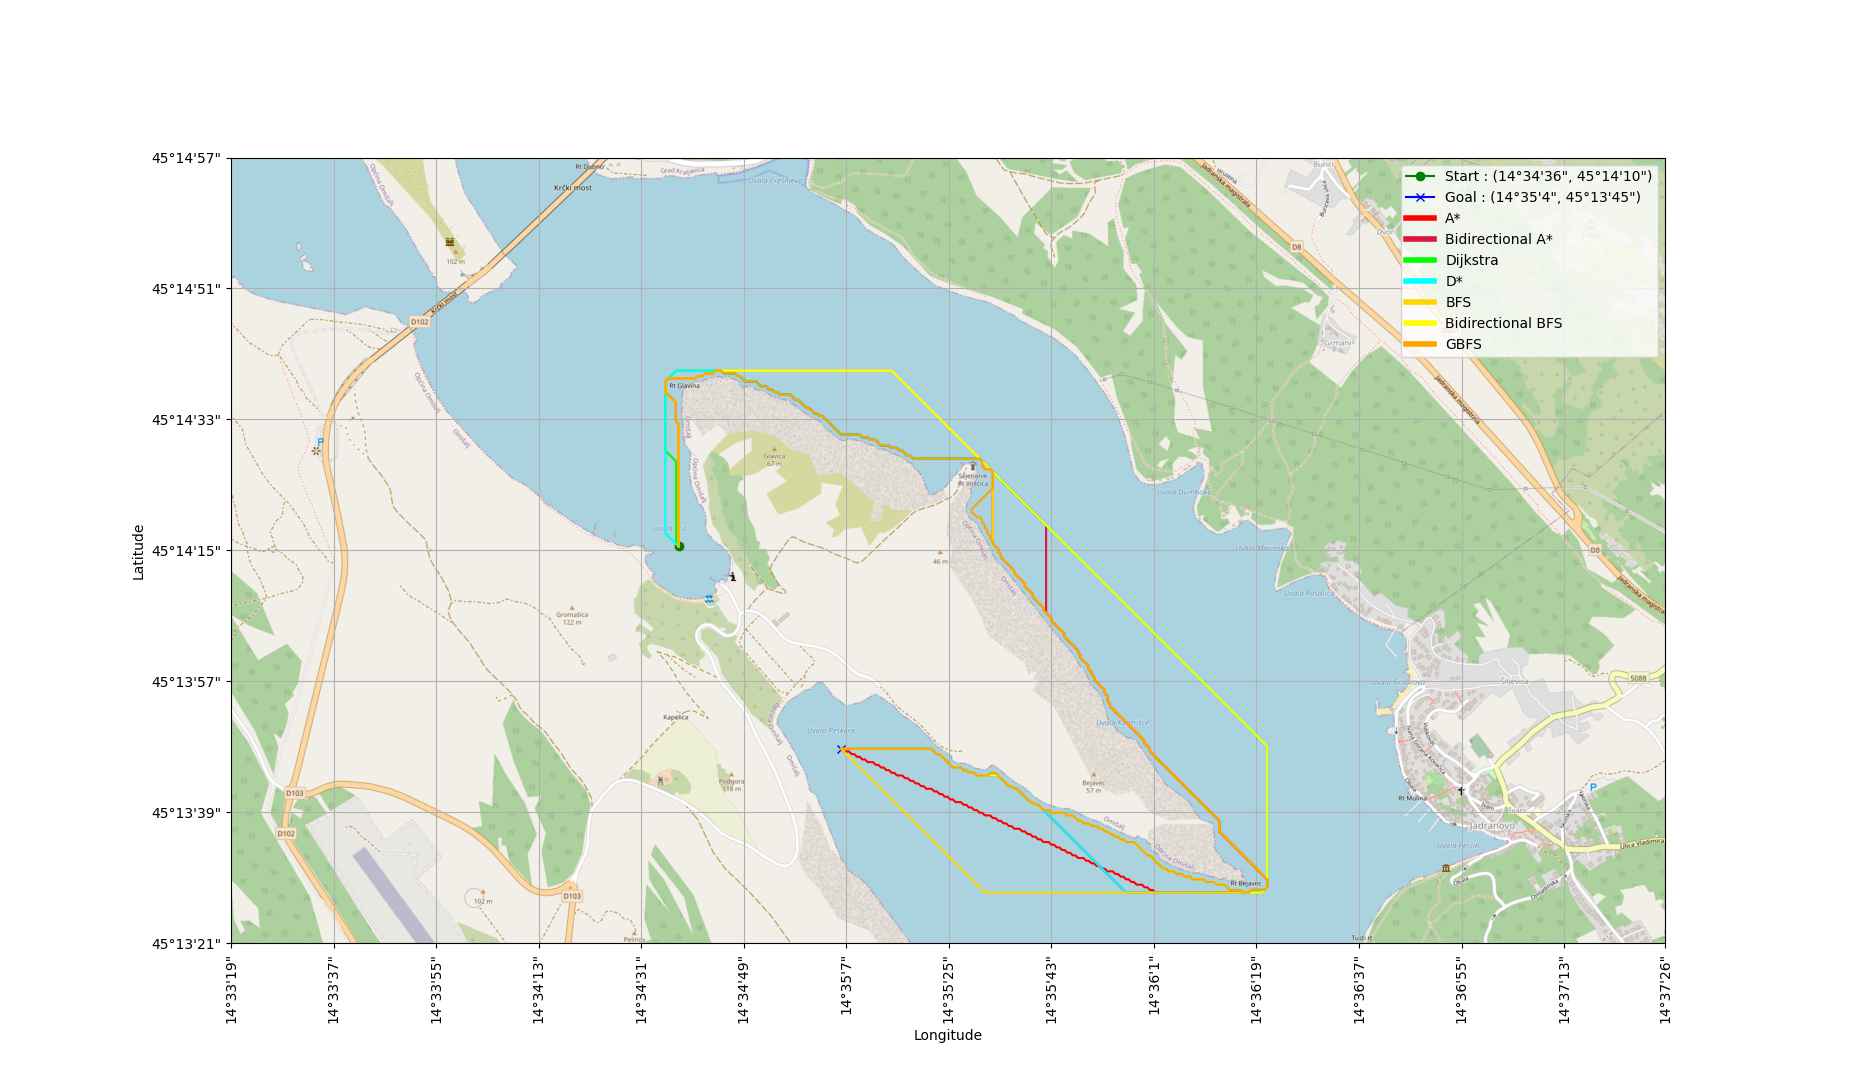
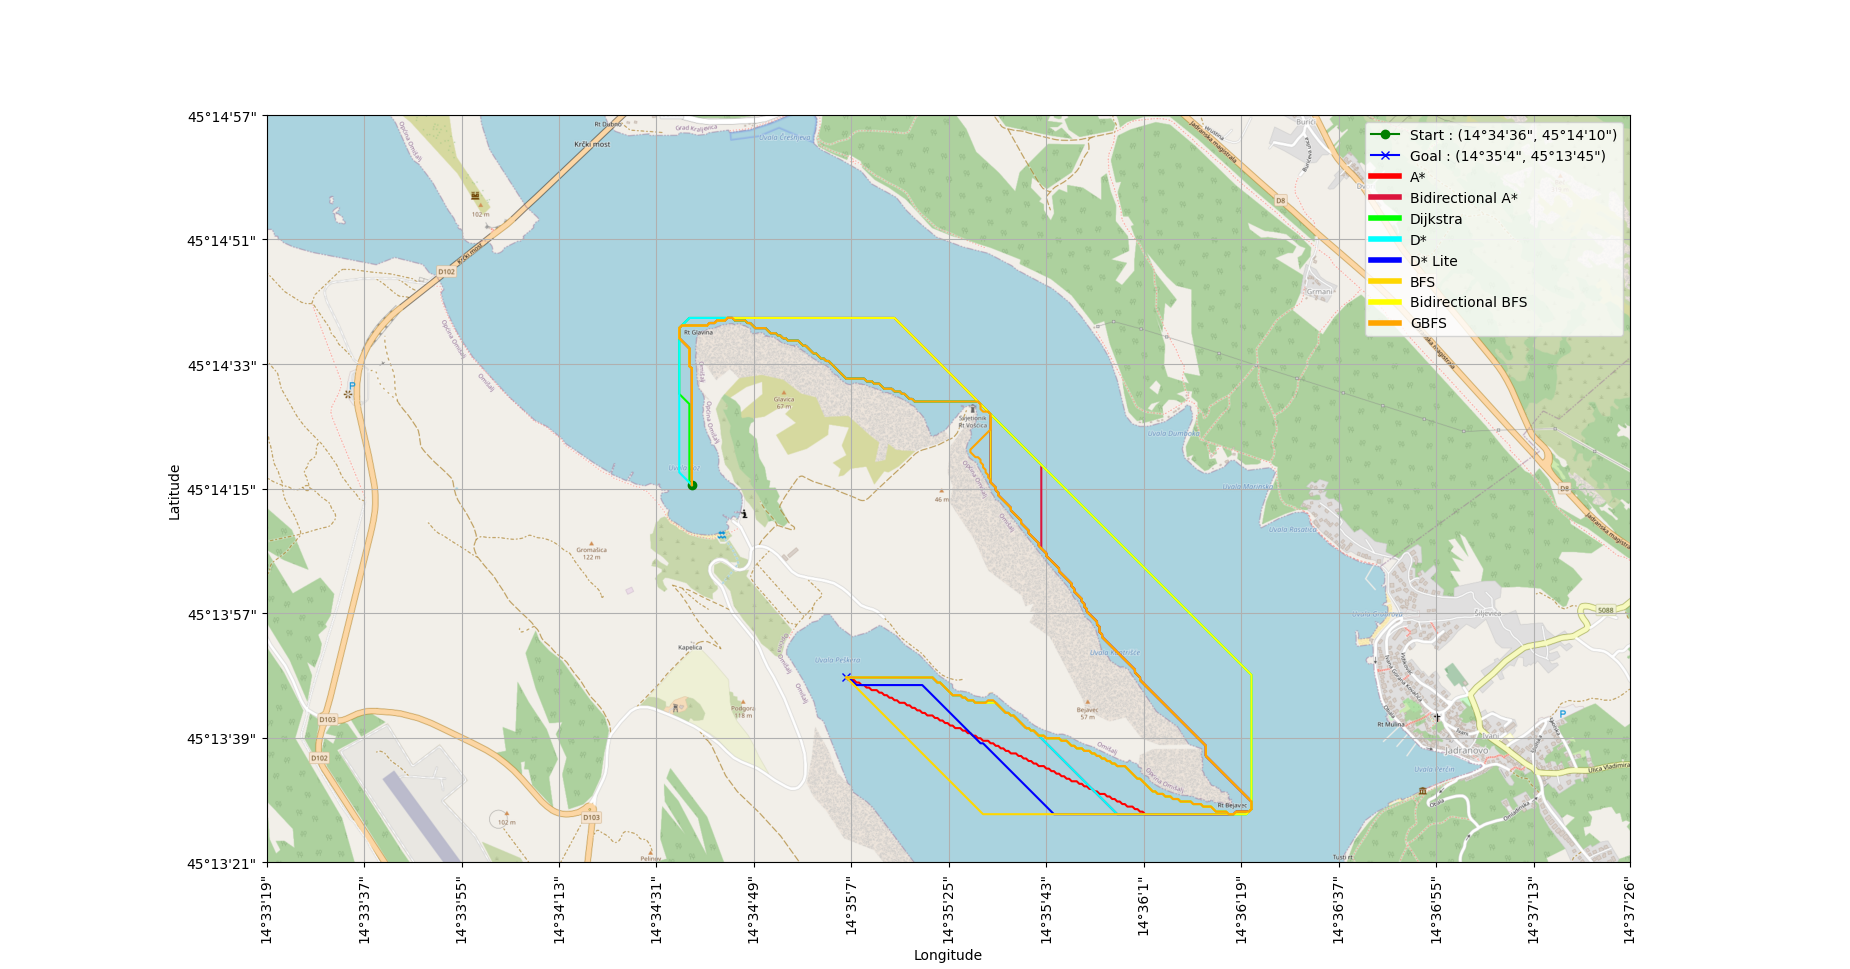
D* lite fixed

diff --git a/test_algorithm/algorithms/d_star_lite.py b/test_algorithm/algorithms/d_star_lite.py
@@ -20,6 +20,7 @@ p_create_random_obstacle = 0
 path_cordinates_x = []
 path_cordinates_y = []
 
+
 class Node:
     def __init__(self, x: int = 0, y: int = 0, cost: float = 0.0):
         self.x = x
@@ -227,9 +228,9 @@ class DStarLite:
                         spoofed_obstacle.x + self.x_min_world)
                     self.detected_obstacles_for_plotting_y.append(
                         spoofed_obstacle.y + self.y_min_world)
-                    #plt.plot(self.detected_obstacles_for_plotting_x,
-                    #         self.detected_obstacles_for_plotting_y, ".k")
-                    #plt.pause(pause_time)
+                    plt.plot(self.detected_obstacles_for_plotting_x,
+                             self.detected_obstacles_for_plotting_y, ".k")
+                    plt.pause(pause_time)
             self.spoofed_obstacles.pop(0)
 
         # Allows random generation of obstacles
@@ -281,15 +282,12 @@ class DStarLite:
     def display_path(self, path: list, colour: str, alpha: float = 1.0):
         px = [(node.x + self.x_min_world) for node in path]
         py = [(node.y + self.y_min_world) for node in path]
-        #for px, py in zip(px, py):
-        #    print(f"({px}, {py})")
         drawing = plt.plot(px, py, colour, alpha=alpha)
         plt.pause(pause_time)
         return drawing
     
     def get_path(self):
         return path_cordinates_x, path_cordinates_y
-
 
     def main(self, start: Node, goal: Node,
              spoofed_ox: list, spoofed_oy: list):
@@ -353,14 +351,13 @@ class DStarLite:
                         current_path_image = self.display_path(current_path,
                                                                ".c")
                         plt.pause(pause_time)
-        
+
         for px in pathx:
             path_cordinates_x.append(px)
         for py in pathy:
             path_cordinates_y.append(py)
         print("Path found")
         return True, pathx, pathy
-
 
 def main():
 

diff --git a/test_algorithm/algorithm_class.py b/test_algorithm/algorithm_class.py
@@ -134,13 +134,20 @@ class Algorithms:
         self.rows.append("D* Lite")
         spoofed_ox = [[], [], [], []]
         spoofed_oy = [[], [], [], []]
+        ox_ = [round(ox/grid_size) for ox in self.ox]
+        oy_ = [round(oy/grid_size) for oy in self.oy]
+        sx = round(sx/grid_size)
+        sy = round(sy/grid_size)
+        gx = round(gx/grid_size)
+        gy = round(gy/grid_size)
         start_time = time.time()
-        dstarlite = DStarLite(self.ox, self.oy)
+        dstarlite = DStarLite(ox_,oy_)
         print(f"Start: {sx, sy} Goal: {gx, gy}")
         dstarlite.main(Node(x=sx, y=sy), Node(x=gx, y=gy),
                 spoofed_ox=spoofed_ox, spoofed_oy=spoofed_oy)
         print("D* Lite calculation finished")
         rx, ry = dstarlite.get_path()
+        rx, ry = [rx[i]*grid_size for i in range(len(rx))], [ry[i]*grid_size for i in range(len(ry))]
         end_time = time.time()
         function_time = round(end_time - start_time, 5)
         distance = round(sum([self.euclidean_distance(x1, y1, x2, y2) for x1, y1, x2, y2 in zip(rx, ry, rx[1:], ry[1:])]),5)

diff --git a/test_algorithm/plot.py b/test_algorithm/plot.py
@@ -23,8 +23,6 @@ import yaml
 import numpy as np
 import sys
 
-matplotlib.use('agg')
-
 root = Path(__file__).resolve().parents[1]
 show_animation = True
 legend_elements = []

diff --git a/README.md b/README.md
@@ -272,15 +272,25 @@ Run for plotting the results:
 
 * Results are saved in the `results` folder with the name `result_image` and `table_name`
 
-**Example of the map with the path planning algorithm results:**
 
-<img src="assets/example_paths.png" alt="drawing" width="500"/>
+<p align="center">
 
-**Example of the table with the runtime results and path length:**
+<img src="assets/example_paths.png" alt="drawing" width="600"/>
 
-<img src="assets/example_table.png" alt="drawing" width="500"/>
+<p align="center">
+<em>
+Figure 4: Example of the map with the path planning algorithm results
+</em>
+</p>
 
-//TODO : fix D* Lite algorithm
+<p align="center">
+
+<img src="assets/example_table_1.png" alt="drawing" width="500"/>
+<p align="center">
+<em>
+Figure 5: Example of the table with the runtime results and path length
+<em>
+</p>
 
 ## Step 4 : Cost map generation
 
